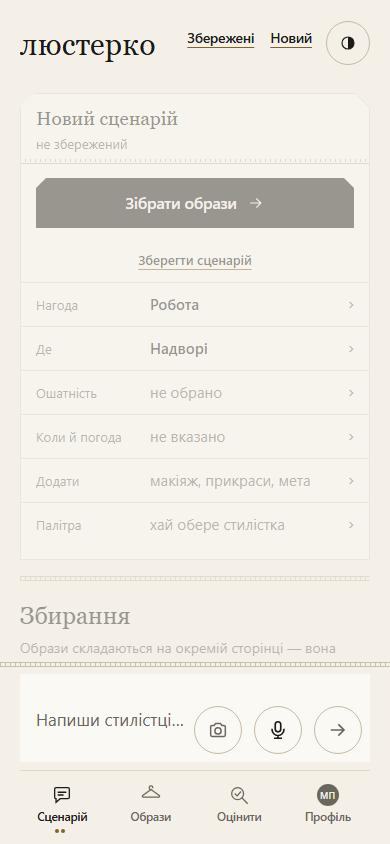
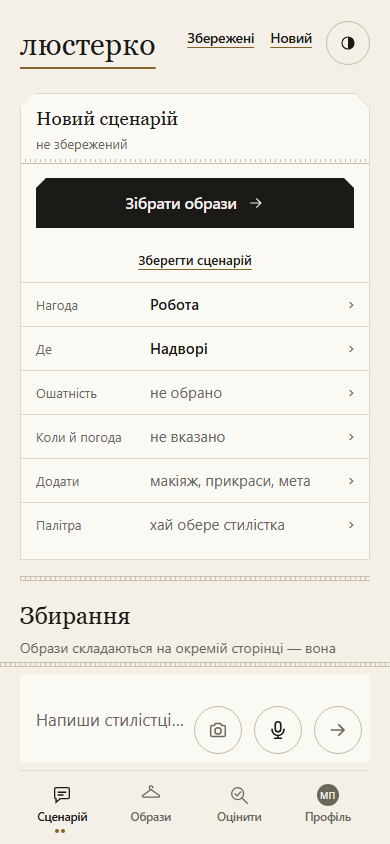
Додати відтворення перевірки паспорта та остаточні знімки
Самодостатня проба запускає Chromium на джерелах заданої голови, перевіряє реальний ручний перехід між місцями, рівність проєкцій та зняття цитати; зберігає знімки 390×844 без анімації. Команда: node аудит/перевірки/2136-паспорт-екран.js <корінь голови PR>. Результат: код 0, помилок сторінки 0. Мережа й моделі у цій пробі відсутні. Публікує обгортка.

diff --git a/аудит/перевірки/2136-паспорт-екран.js b/аудит/перевірки/2136-паспорт-екран.js
@@ -1,0 +1,43 @@
+/* Прицільна перевірка показу без мережі й моделей; аргумент — корінь перевірюваного дерева. */
+const fs = require('fs'), path = require('path'), assert = require('assert');
+const {chromium} = require('playwright');
+const дж = path.join(path.resolve(process.argv[2]), 'джерела');
+const ш = require(path.join(дж, 'показ_шаблон.js'));
+const html = ш.підставитиШаблон(fs.readFileSync(path.join(дж, 'показ.html'), 'utf8'), {
+  __МОДУЛІ_ПОКАЗУ__: '', __ЗБІРКА_ПОКАЗУ__: 'перевірка 2136', __ВІДБИТОК__: 'a97ceb1',
+  __ФІД_ПОКАЗУ__: '', __КАТАЛОГ_ПОКАЗУ__: '', __ДОВІДНИК_ПОКАЗУ__: ш.прочитатиДовідникJSON(дж)
+}).replace(/<script [^>]*src="https:\/\/cdn[^>]*><\/script>/, '');
+(async () => {
+  const браузер = await chromium.launch({headless: true});
+  try {
+    const сторінка = await браузер.newPage({viewport: {width: 390, height: 844}}), помилки = [];
+    сторінка.on('pageerror', п => помилки.push(String(п)));
+    await сторінка.route('**/*', р => р.request().url() === 'http://127.0.0.1:9876/'
+      ? р.fulfill({contentType: 'text/html; charset=utf-8', body: html}) : р.abort());
+    await сторінка.goto('http://127.0.0.1:9876/');
+    await сторінка.waitForFunction(() => typeof $('сцн-новий').onclick === 'function');
+    await сторінка.evaluate(() => {
+      ПРОФІЛЬ_СТВОРЕНО = true;
+      КОЛІР.шкіра = '#d7b29b'; КОЛІР.волосся = '#503727'; КОЛІР.очі = '#536149';
+      for (const [ід, значення] of Object.entries({'мр-зріст': '170', 'мр-плечі': '40',
+        'мр-груди': '92', 'мр-талія': '72', 'мр-стегна': '98'})) $(ід).value = значення;
+      ПАСПОРТ_П = {джерело: 'модель', нагода: 'робота', місце: 'парк',
+        цитати_полів: {місце: 'у парку'}, джерело_полів: {місце: 'conversation'},
+        картка_запиту: {місце: {значення: 'парк', джерело: 'her', уривок: 'у парку'}}};
+      застосуватиПаспортДоЕкрана(ПАСПОРТ_П); режим('сценарій');
+    });
+    await сторінка.locator('#сц-картка').scrollIntoViewIfNeeded();
+    await сторінка.screenshot({path: path.join(__dirname, '2136-паспорт-до.png'), animations: 'disabled'});
+    const до = await сторінка.evaluate(() => ({паспорт: ПАСПОРТ_П, текст: $('сц-картка').innerText}));
+    await сторінка.evaluate(() => { $('сц-місце').value = 'офіс'; рукаТоркнуласьП('сц-місце'); });
+    await сторінка.screenshot({path: path.join(__dirname, '2136-паспорт-після.png'), animations: 'disabled'});
+    const після = await сторінка.evaluate(() => ({паспорт: ПАСПОРТ_П,
+      картка: КАРТКА_ЗАПИТУ_П, текст: $('сц-картка').innerText}));
+    assert.equal(до.паспорт.місце, 'парк'); assert.equal(після.паспорт.місце, 'офіс');
+    assert.deepStrictEqual(після.картка.місце, {значення: 'офіс', джерело: 'hand', уривок: ''});
+    assert.deepStrictEqual(після.паспорт.картка_запиту.місце, після.картка.місце);
+    assert.deepStrictEqual(після.паспорт.цитати_полів, {}); assert.deepStrictEqual(помилки, []);
+    fs.writeFileSync(path.join(__dirname, '2136-паспорт-екран.json'), JSON.stringify({до, після, помилки}, null, 2) + '\n');
+    console.log('Chromium 390×844: парк → офіс; факт hand; уривок порожній; проєкції тотожні; помилок 0.');
+  } finally { await браузер.close(); }
+})().catch(п => { console.error(п); process.exitCode = 1; });
